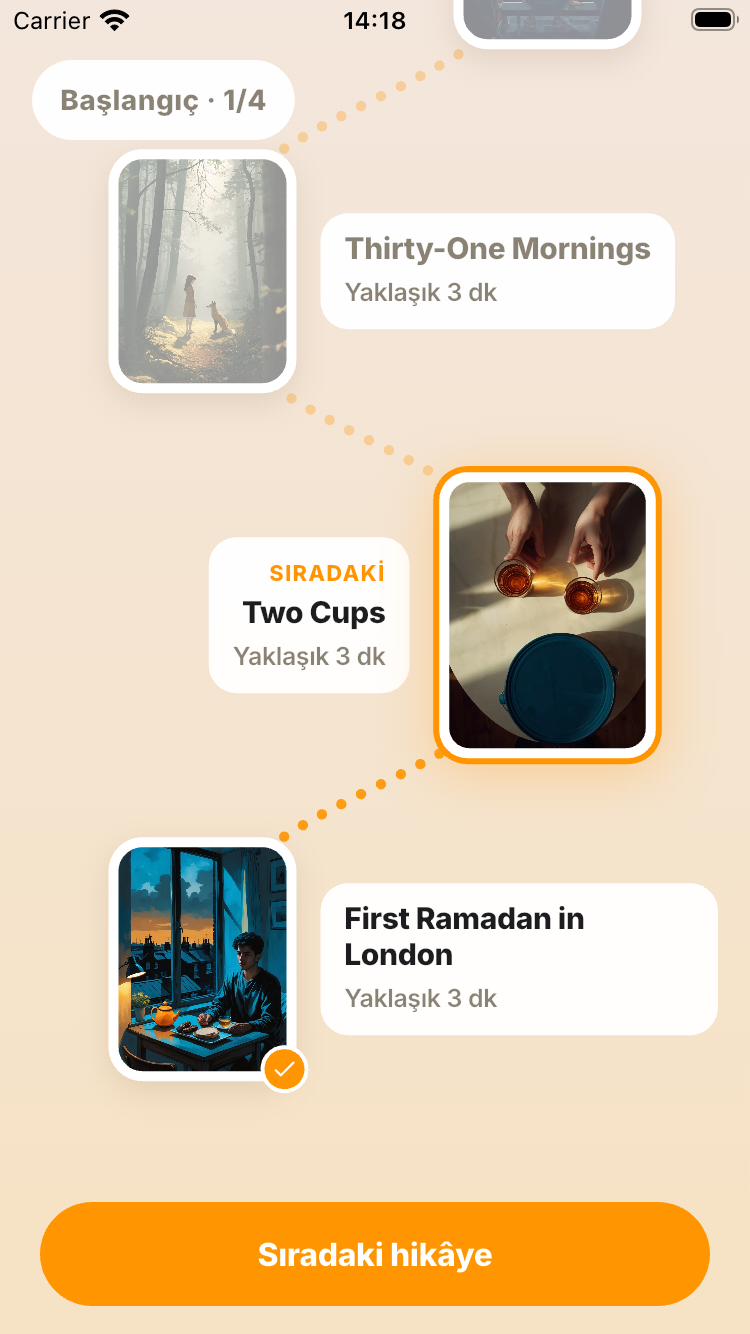
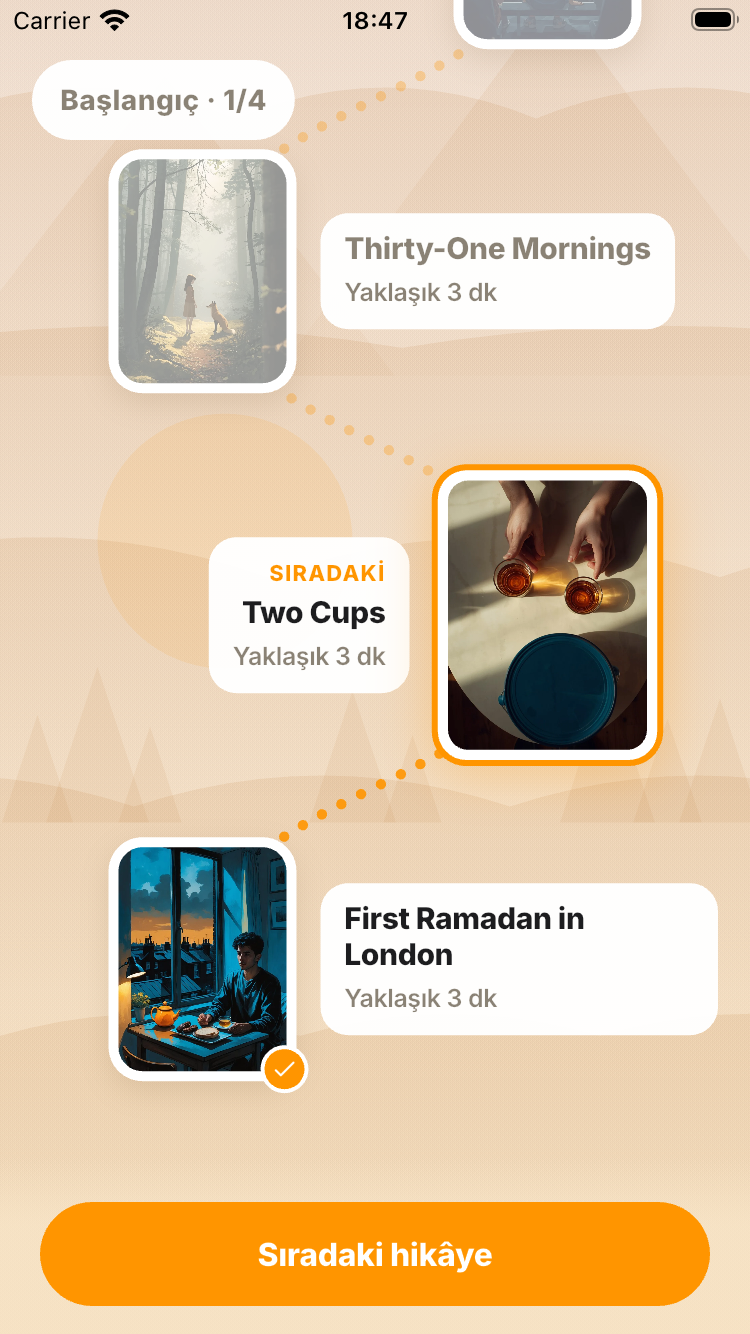
Rapor: yolculuk sayfasında kapak düzeltmesi ve manzaralı arka plan, görüntüler yenilendi (editör)

diff --git a/raporlar/2026-11-20_editor_durum_raporu.md b/raporlar/2026-11-20_editor_durum_raporu.md
@@ -162,3 +162,12 @@ Taslağın gösterdikleri:
 - **C'de** "ayrıca yarım gösterilmez" kuralı iki kelimede "ayrıca"yı tamamen siliyor.
 
 **Dalda duran kod:** bu talimat gelmeden önce `59eefc1e` ile "balon bağlantısız hâliyle aynı ölçüde, bağlantı son satırda" kuralını yazıp göndermiştim (A'ya yakın ama bağlantı "ayrıca" satırında). Mehmet seçince yerine seçilen yazılacak; C seçilirse o commit geri alınır. Derleme 49 seçimden önce çıkarılmamalı.
+
+### Ek 3 (20 Kasım, 18:50): Mehmet telefonda baktı, iki düzeltme (`101e13e8`)
+
+Mehmet (18:40): "Yolculuk sayfası var ama kutuların içinde kitap görselleri yok; arka plan da sade gelmiş."
+
+- **Kapaklar boş çıkıyordu; benim hatam.** Sunucu durağın kapağını kısa yol olarak veriyor (`/images/…`); yolculuk verisi bunu tam adrese çevirmiyordu. İlk görüntüleri tam adresle aldığım için hata gizli kalmıştı (raporda "gerçek sunucu verisiyle sürülmedi" diye yazdığım eksik tam buydu). Düzeltildi; görüntü koşusu artık sunucunun verdiği kısa yolu kullanıyor, bir de testle kilitli.
+- **Arka plan:** düz geçişin yerine kariyer sayfasının manzara dili geldi: güneş, tepe sıraları, çamlar ve sırtlar; her sıra tepesinde belirgin, aşağı doğru saydamlaşıyor (keskin kenar yok). Saydamlıklar düşük; kapaklar ve adlar öne çıkıyor.
+
+Görüntüler yenilendi: `ekran_2026-11-20/yolculuk_pano.png` ve tekil dosyalar.
